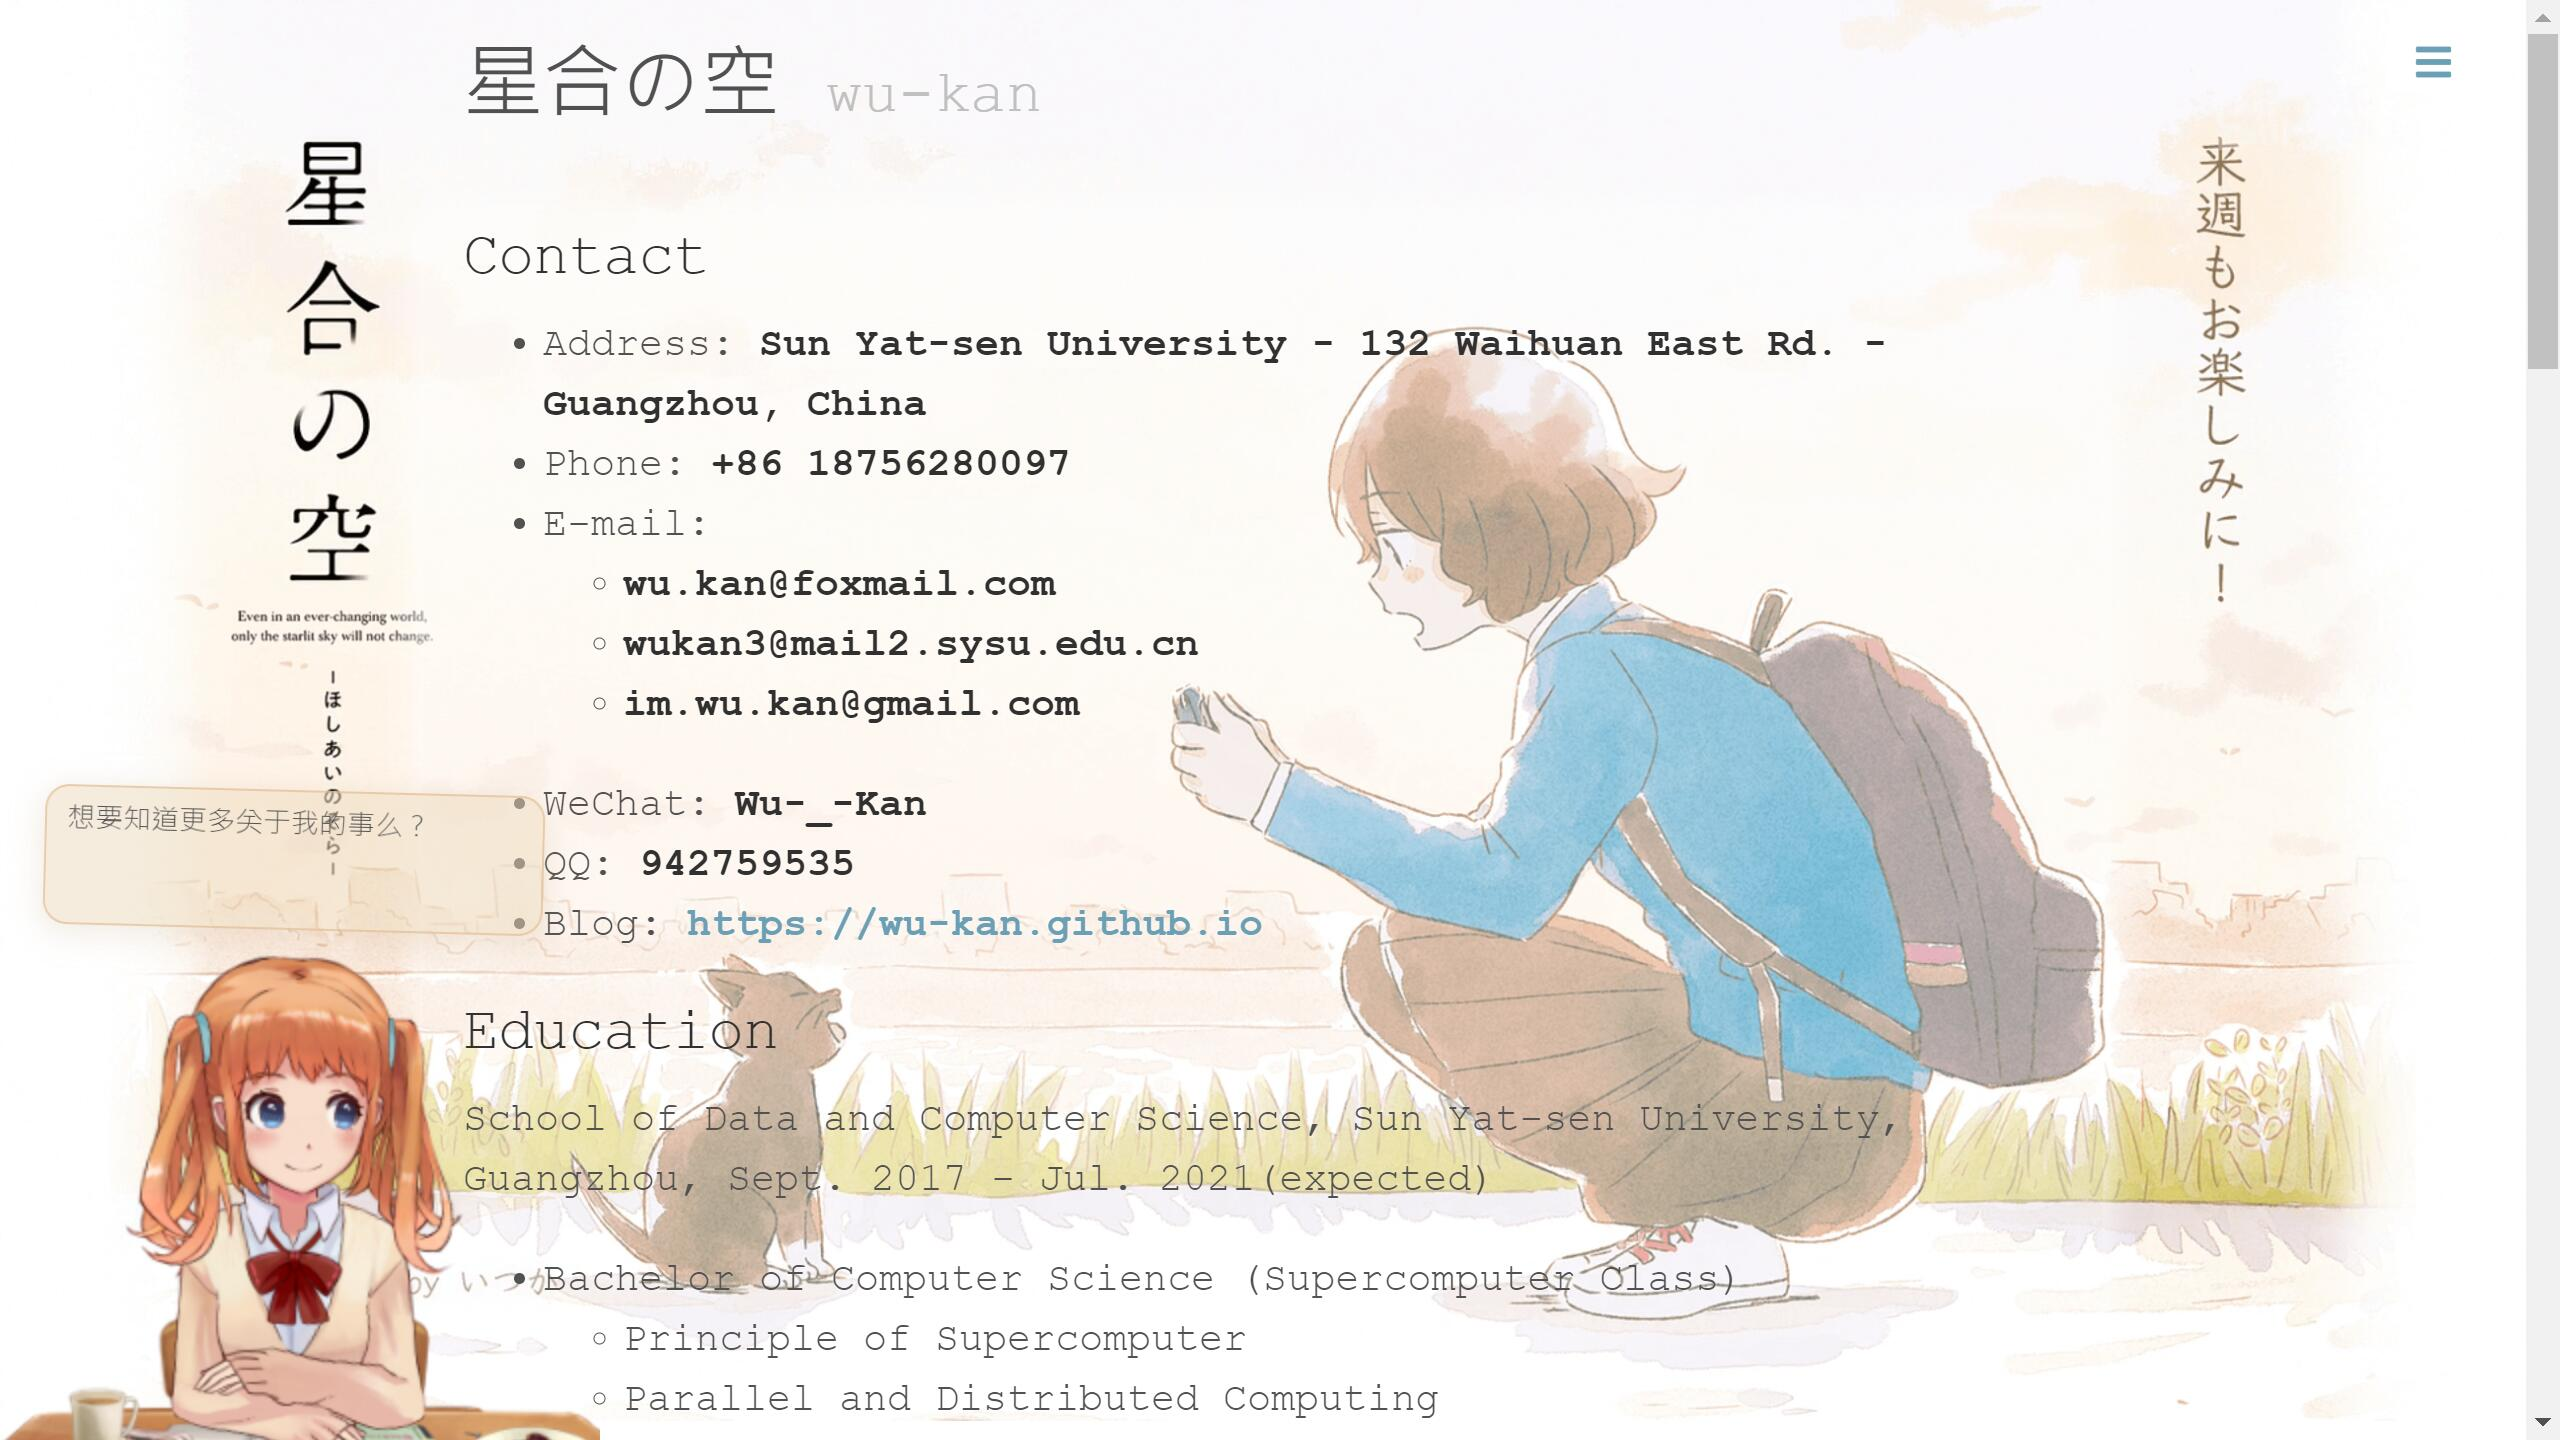
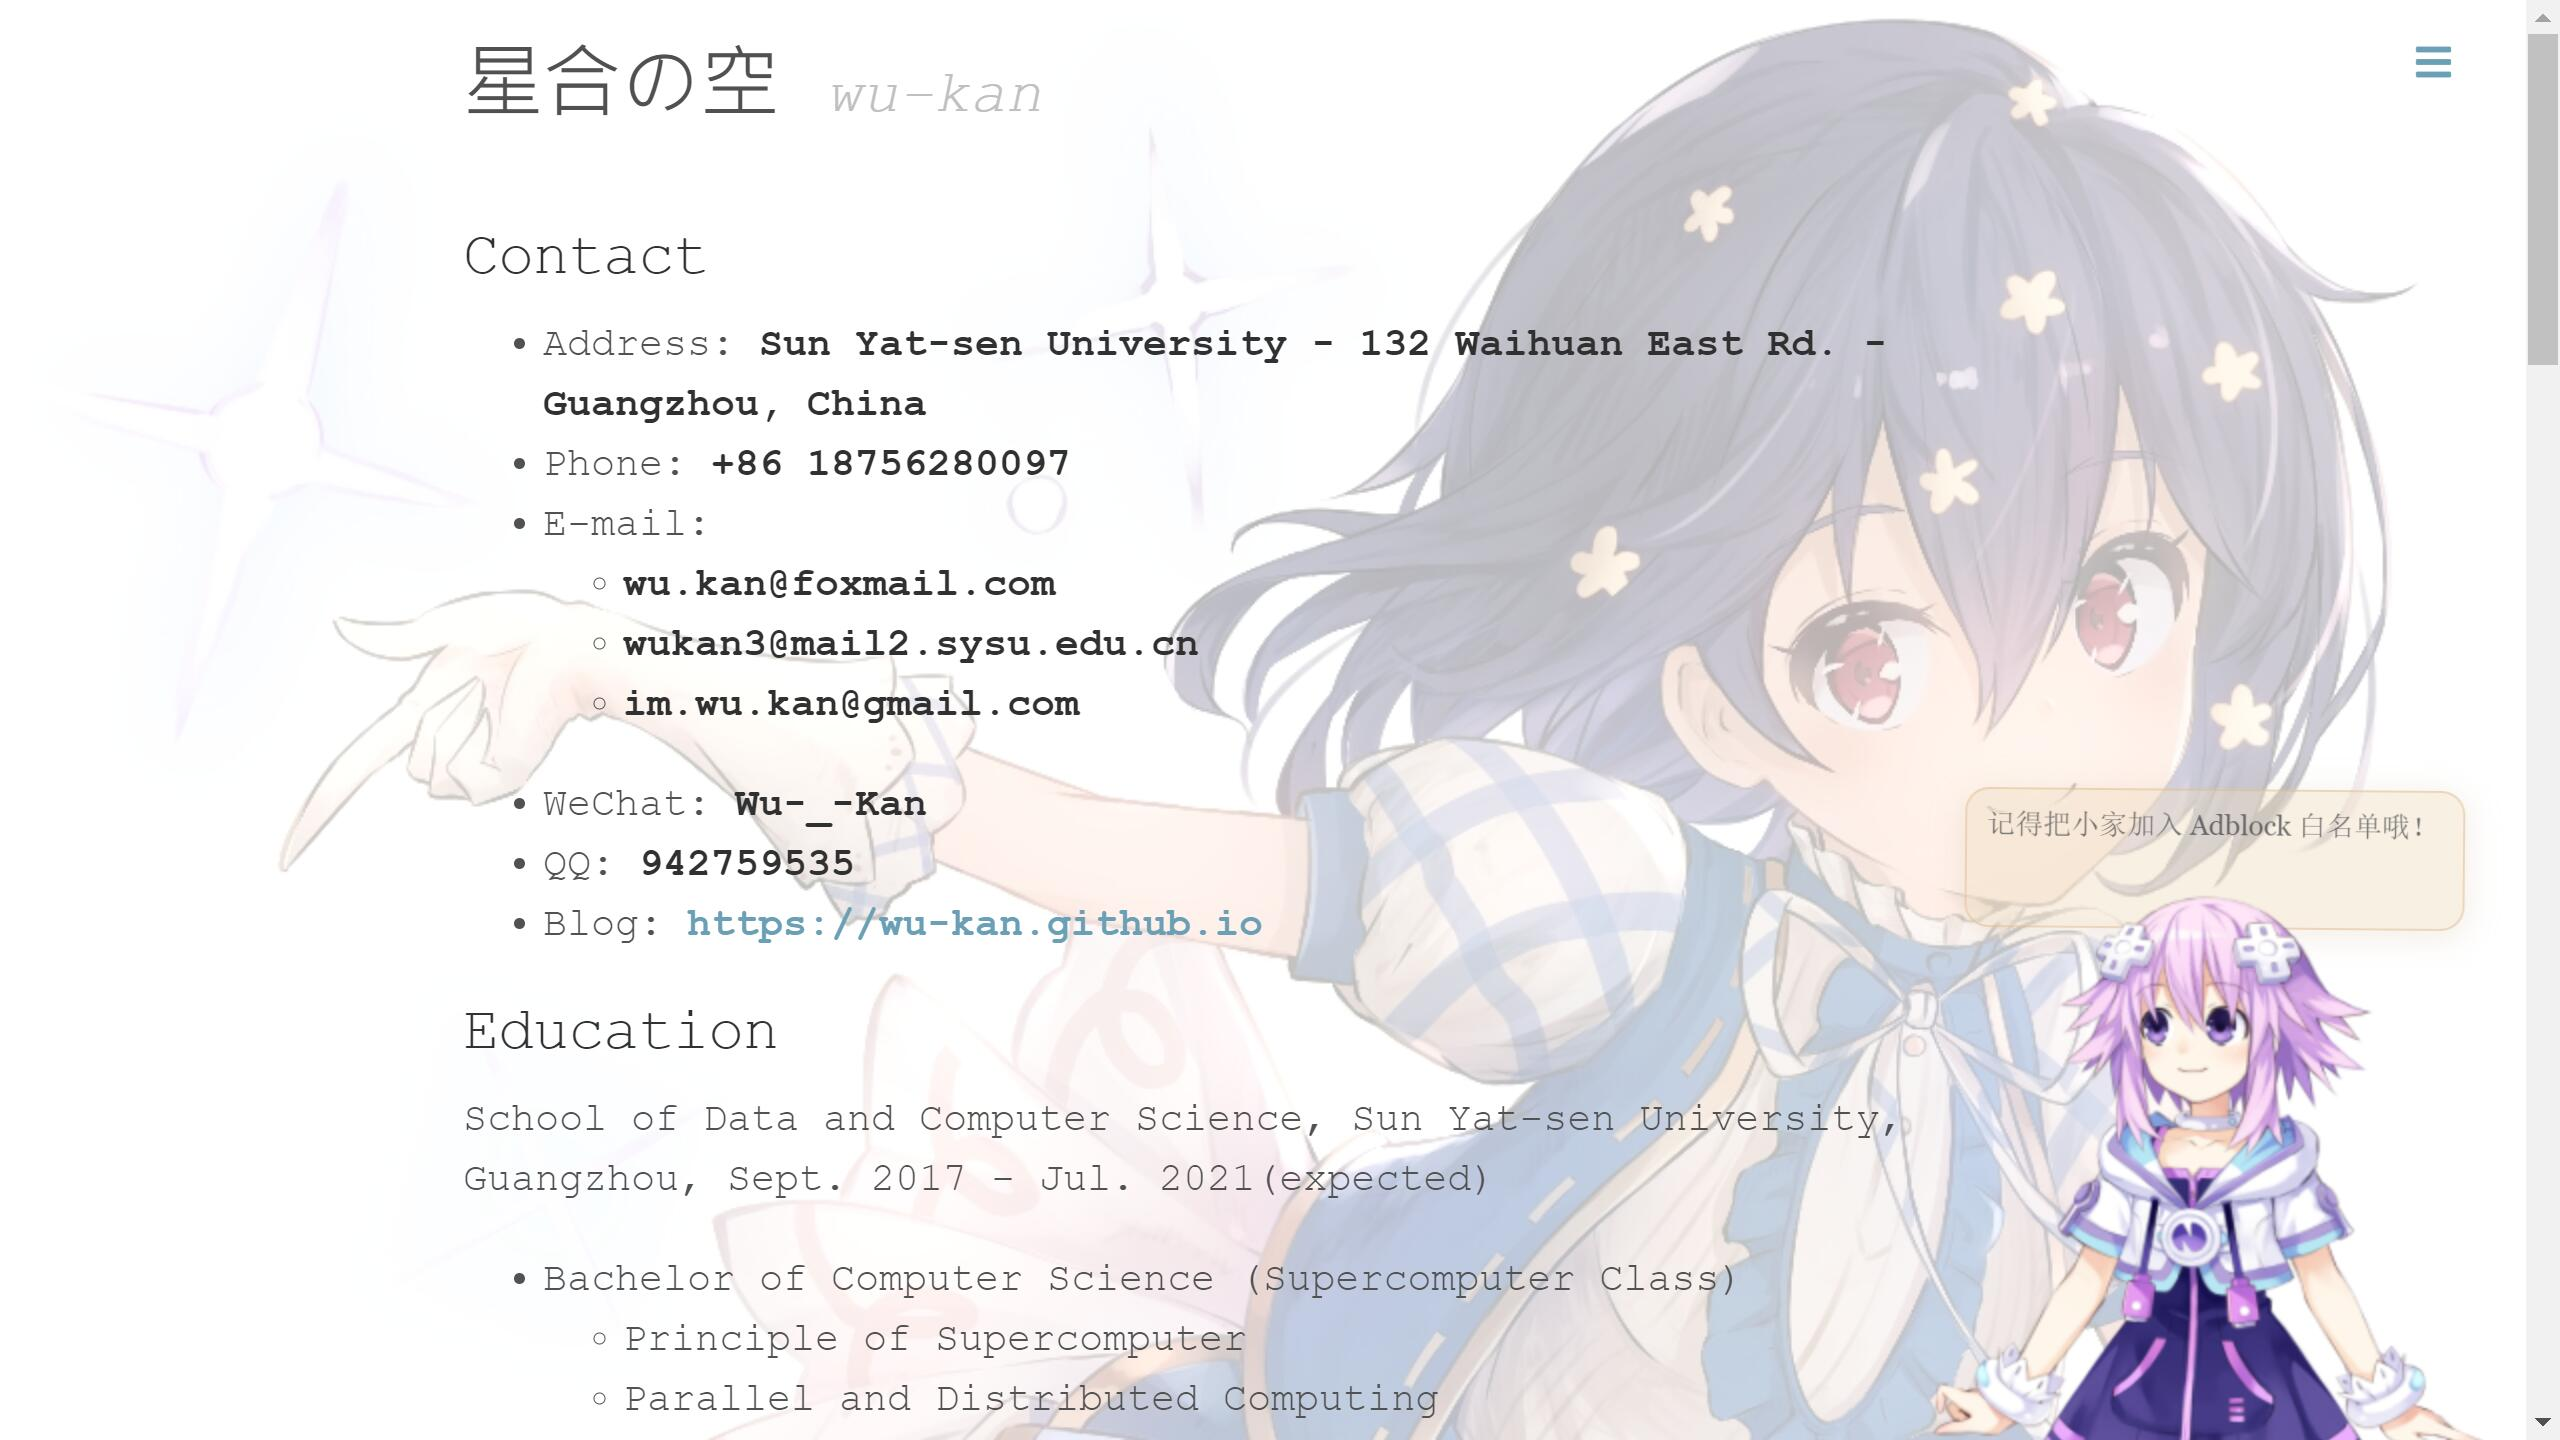
### 2020.01.31 v2.4.1
- 赞赏按钮样式修复
- 使用<https://loli.net>加速gravatar，感谢~
- 网站字体更换为等宽字体+微软正黑体
- live2d移动到页面右侧
- 更换爱酱壁纸，pixiv id=71932901

diff --git a/README.md b/README.md
@@ -85,15 +85,18 @@ Live2D来自于[stevenjoezhang/live2d-widget](https://github.com/stevenjoezhang/
 
 ## 历程
 
-### 正在进行 v2.4.1
+### To Be Done
 
 - [ ] 所有插件完全使用autoloader加载，参数通过函数传给js
 - [ ] katex行间公式（目前行间公式可通过MathJax实现，但是渲染性能不高）
-- [x] 没有背景感觉好单调，Ribbon默认开启回归（花 里 胡 哨
-- [x] 赞赏按钮样式更新
-- [x] 使用<https://loli.net>加速gravatar和google字体css，感谢~
-- [x] 网站字体更换为等宽字体+微软正黑体
-- [x] 更换爱酱壁纸，pixiv id=71932901
+
+### 2020.01.31 v2.4.1
+
+- 赞赏按钮样式修复
+- 使用<https://loli.net>加速gravatar，感谢~
+- 网站字体更换为等宽字体+微软正黑体
+- live2d移动到页面右侧
+- 更换爱酱壁纸，pixiv id=71932901
 
 ### 2019.11.11 v2.4.0
 
